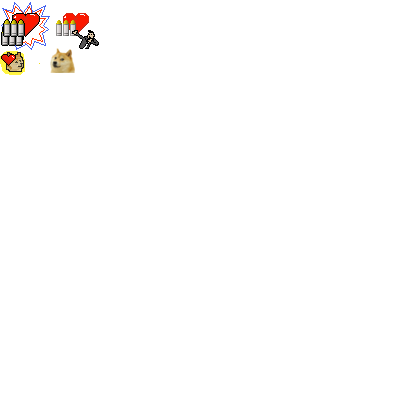
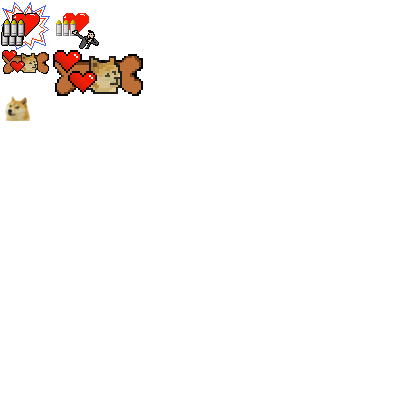
new bonuses drawings

Changed region(s): [[0.0, 0.12, 0.36, 0.24], [0.0, 0.24, 0.09, 0.3]]

diff --git a/app/scripts/game/entities.js b/app/scripts/game/entities.js
@@ -109,7 +109,7 @@ define( [ 'game/models/models','game/petra'], function(Models,petra){
   var asteroids3SpriteSheet = ['images/nebula/asteroids3.png', [0,0], [600,600], 1 , [0]]
   var cometSpriteSheet = ['images/nebula/comet.png', [0,0], [750,200], 5 , [0], 'vertical']
 
-  var bonusSpriteSchema = ['images/weapons/bonus.png', [0,50], [25,25], 1, [0]];
+  var bonusSpriteSchema = ['images/weapons/bonus.png', [50,50], [100,50], 1, [0]];
   var bonus2SpriteSchema = ['images/weapons/bonus.png', [0,0], [150,85], 1, [0]];
   var bonusWeaponSpriteSchema = ['images/bonusWeapon.png', [0,0], [40,40], 1, [0]];
 
@@ -232,7 +232,7 @@ define( [ 'game/models/models','game/petra'], function(Models,petra){
     },
     'bonus': {
       speed: [200,200],
-      resize: [60,60],
+      resize: [120,60],
       sprite: bonusSpriteSchema,
       angle : 1
     }, 'bonus2': {

diff --git a/app/scripts/game/app.js b/app/scripts/game/app.js
@@ -1049,7 +1049,7 @@ define( [ 'game/models/models', 'hu','game/entities','game/scenario', 'levelsDir
   }
   function updateBonuses(dt){
     bonuses = hu.compact(bonuses
-      .map(wrapperNotReadyForActionOnly(moveInsideScreen(dt, 10)))
+      .map(wrapperNotReadyForActionOnly(moveInsideScreen(dt, 30)))
       .map(wrapperNotReadyForActionOnly(readyForActionIfInsideScreen(10))));
 
     bonuses = hu.compact(hu.compact(bonuses

diff --git a/app/scripts/game/models/models.js b/app/scripts/game/models/models.js
@@ -100,7 +100,7 @@ define( ['game/models/scene', 'game/petra'], function(Scene, petra){
     return this.getSize()[1];
   }
    RenderableEntity.prototype.getWidth = function(){
-    return this.getSize()[1];
+    return this.getSize()[0];
   }
 
   RenderableEntity.prototype.getHitBox = function() {
